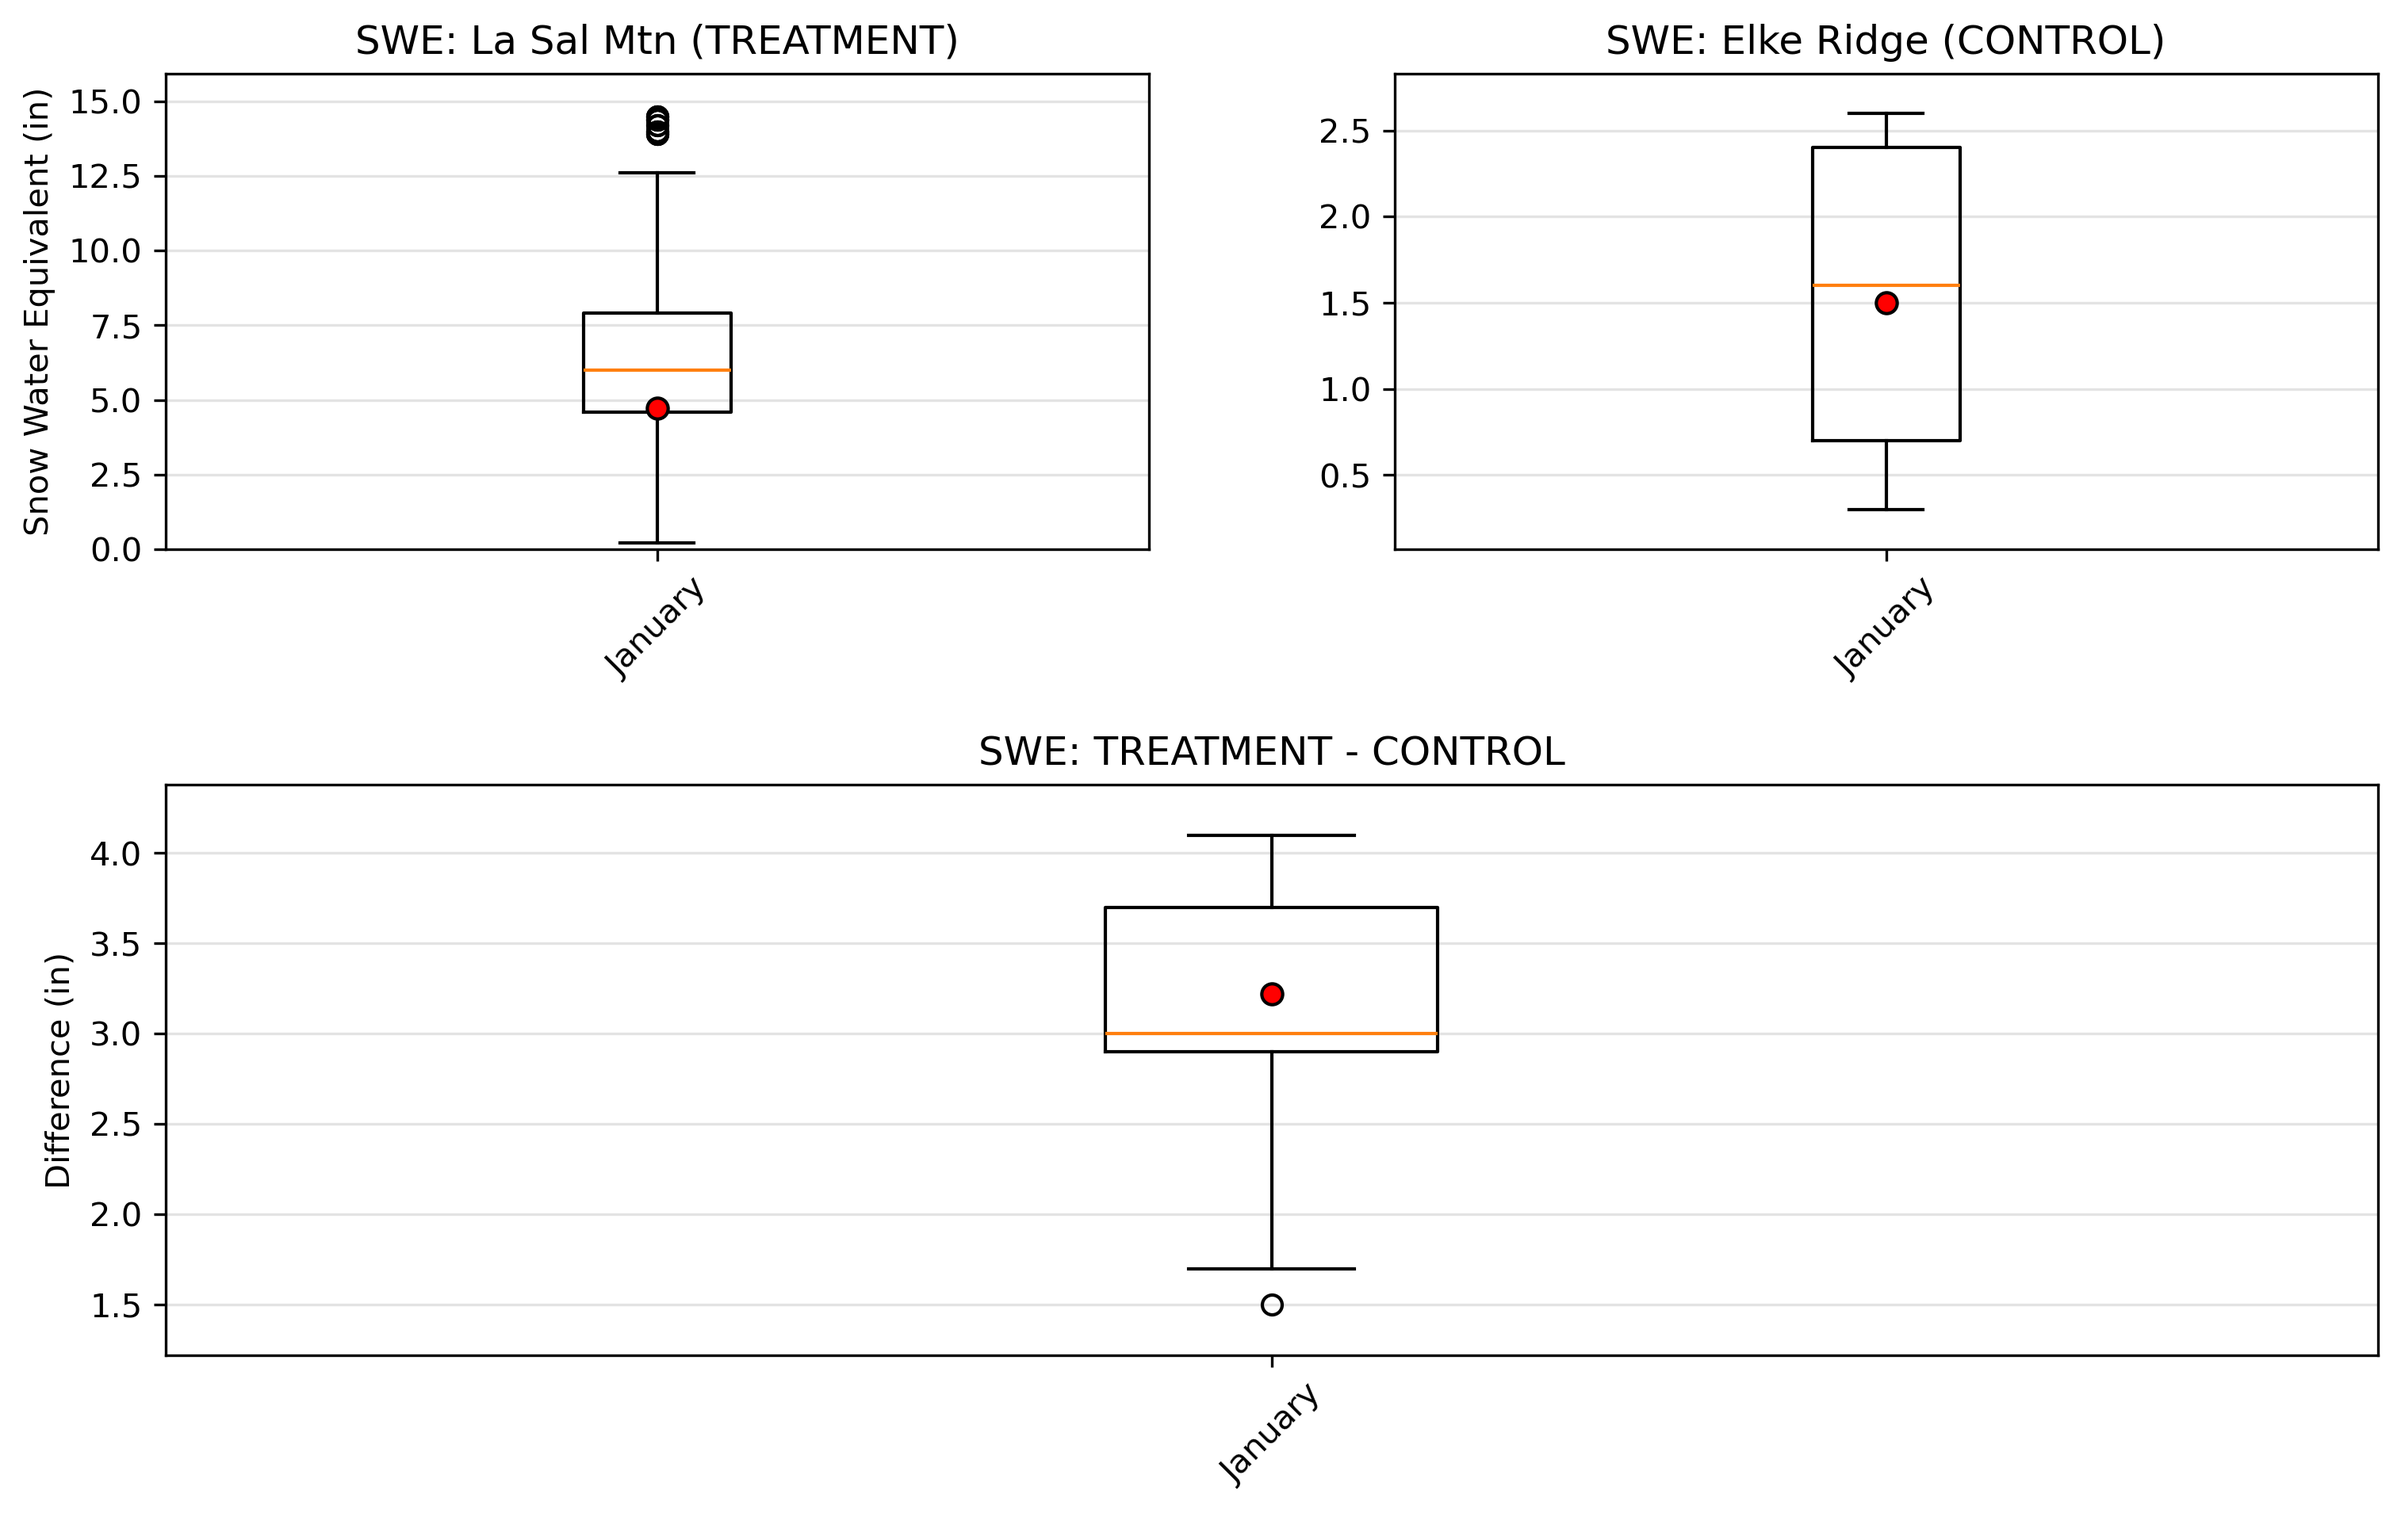
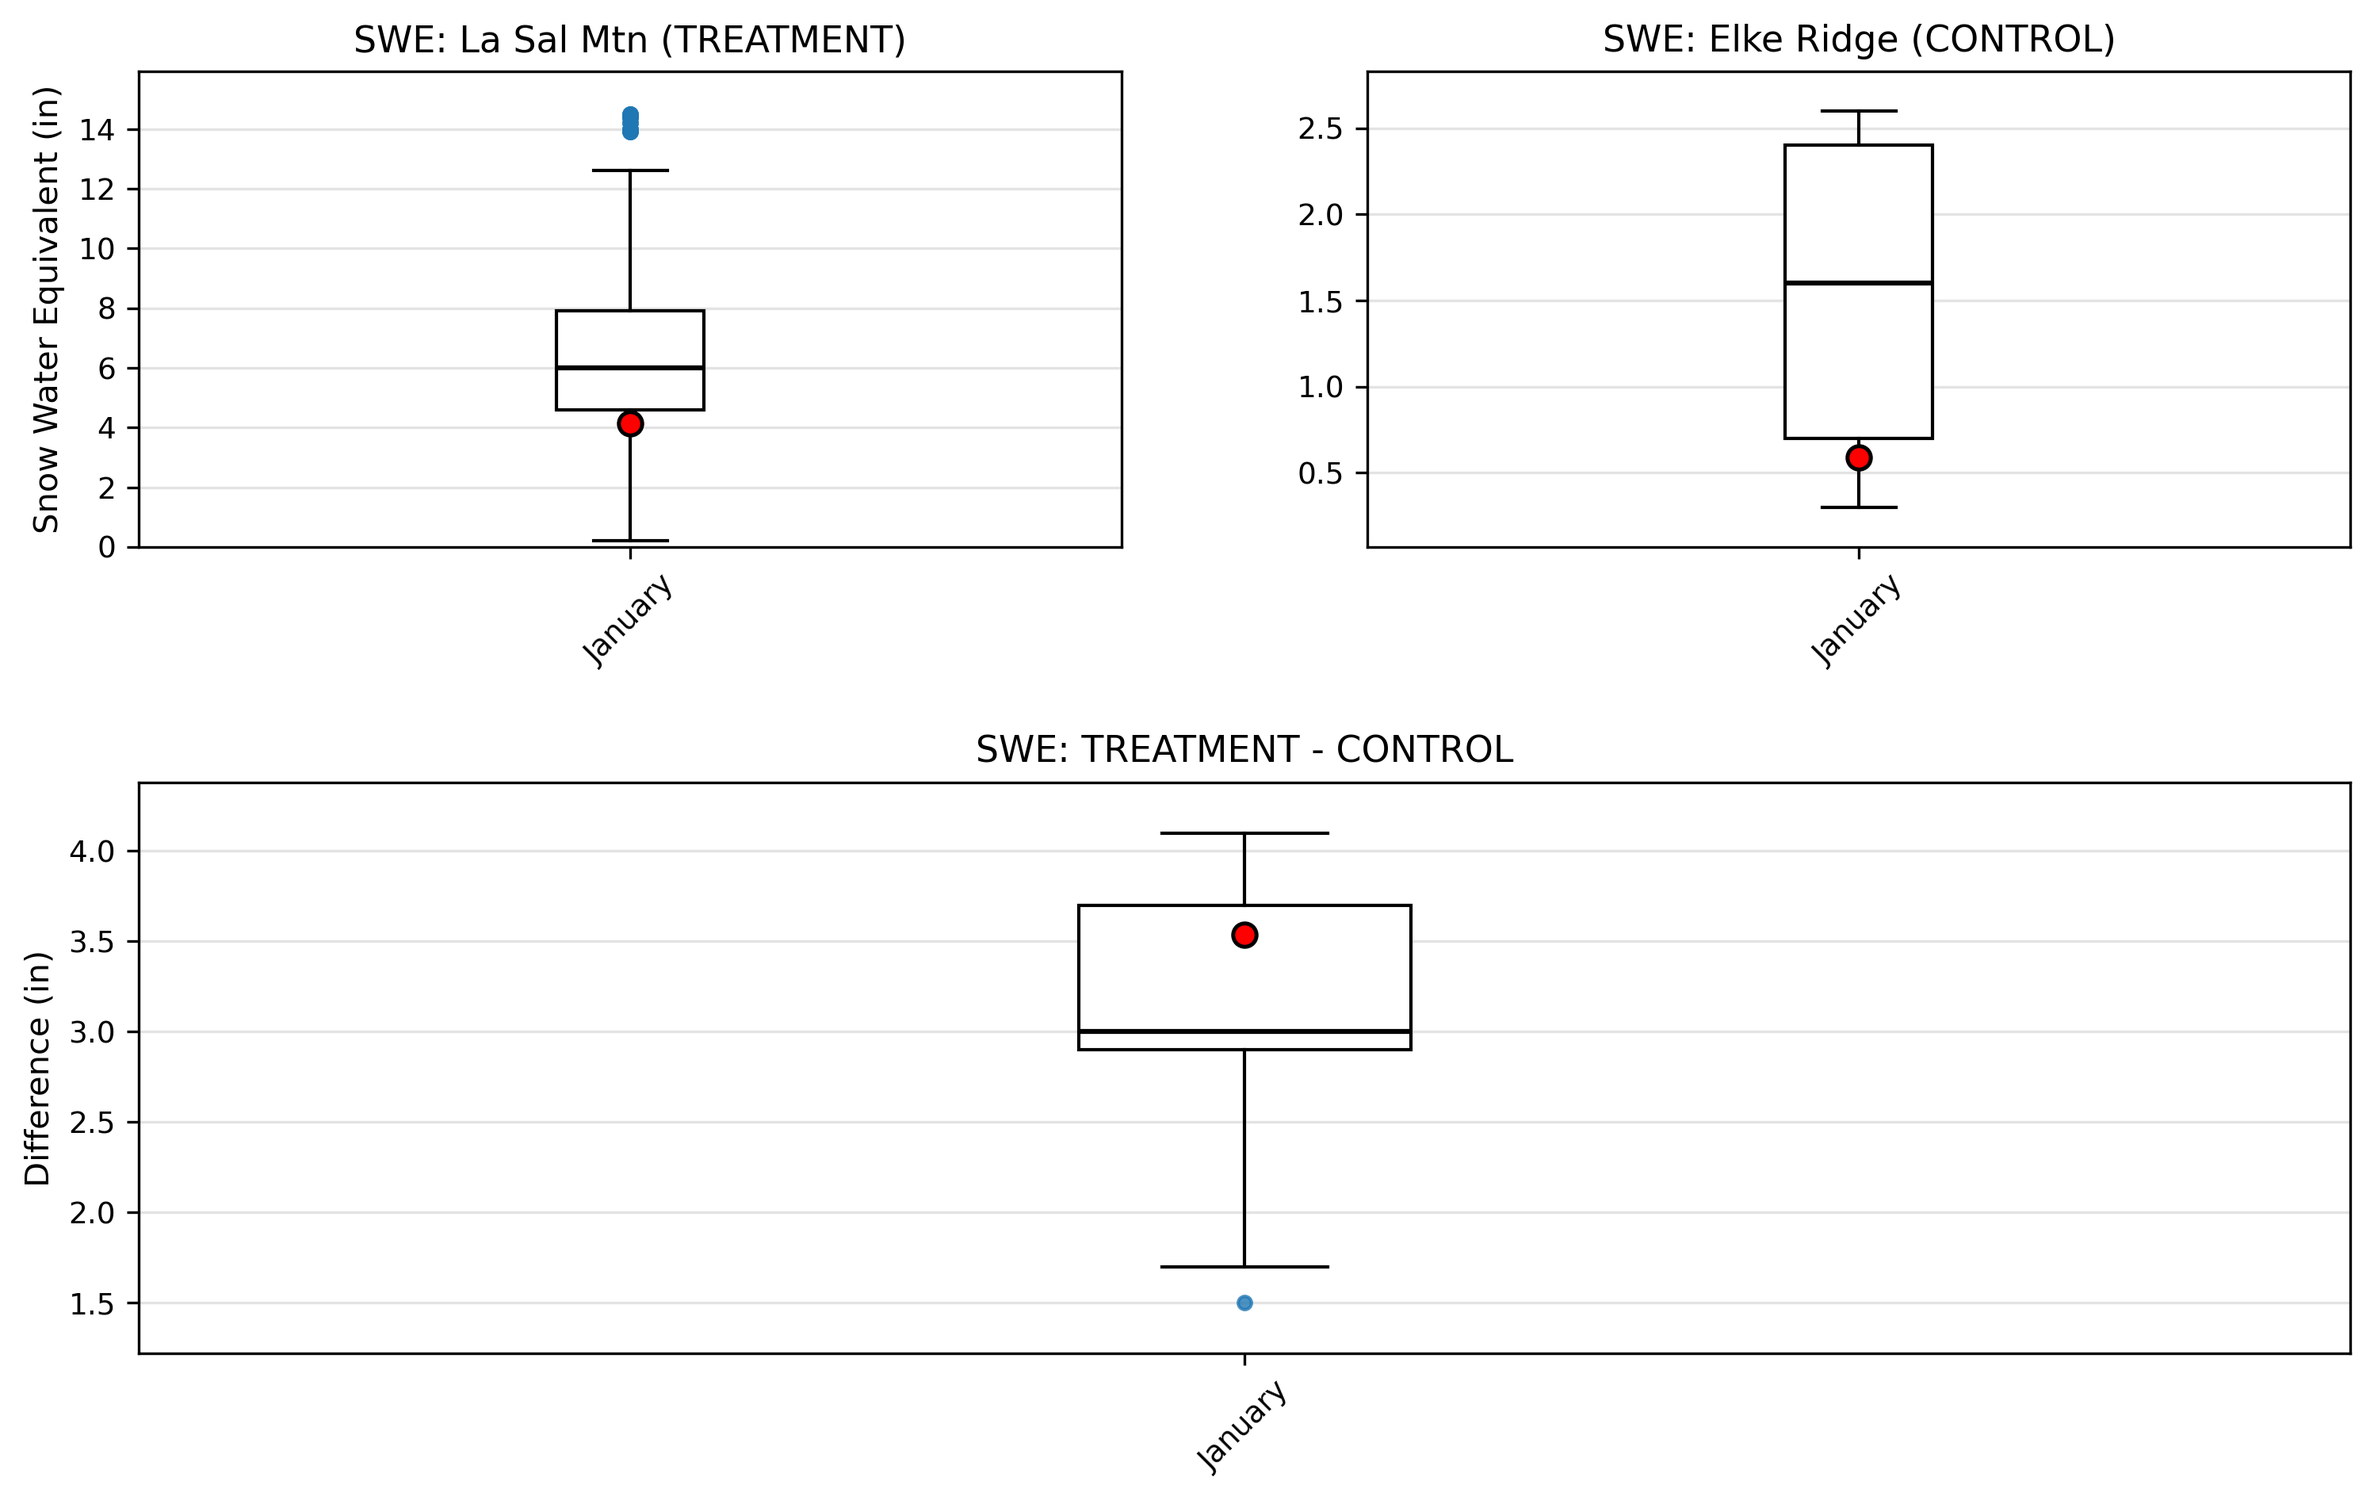
Boxplots: climatological January (all years) with Jan 2026 highlighted; style match Feb report (blue outliers, red dot current year)
Made-with: Cursor

diff --git a/scripts/plot_generators.py b/scripts/plot_generators.py
@@ -330,12 +330,12 @@ def plot_snow_depth_boxplots(treatment_station, control_station, month, year,
     highlight_vals = None
     highlight_label = None
     
-    # Only process the target month
+    # Climatological boxplot: all years of the target month (e.g. all January values), with highlight_year highlighted
     t_data = treatment_df[treatment_df['month'] == target_month]['Value'].dropna().values
     c_data = control_df[control_df['month'] == target_month]['Value'].dropna().values
     
     if len(t_data) > 0 and len(c_data) > 0:
-        # Merge on date to calculate differences
+        # Merge on date to get differences for all years
         t_month = treatment_df[treatment_df['month'] == target_month].set_index('Date')['Value']
         c_month = control_df[control_df['month'] == target_month].set_index('Date')['Value']
         
@@ -349,15 +349,19 @@ def plot_snow_depth_boxplots(treatment_station, control_station, month, year,
             diff_groups.append(merged['Diff'].values)
             labels.append(month_name)
             
-            # Set highlight for current month/year
+            # Highlight only the highlight year (e.g. January 2026) — mean of that month in that year
             if highlight_year:
-                highlight_idx = 1  # Only one box, so index is 1
-                highlight_vals = {
-                    't': float(merged['Treatment'].mean()),
-                    'c': float(merged['Control'].mean()),
-                    'd': float(merged['Diff'].mean())
-                }
-                highlight_label = None  # Remove label
+                highlight_idx = 1  # One box, index 1
+                merged_yr = merged[merged.index.year == highlight_year]
+                if len(merged_yr) > 0:
+                    highlight_vals = {
+                        't': float(merged_yr['Treatment'].mean()),
+                        'c': float(merged_yr['Control'].mean()),
+                        'd': float(merged_yr['Diff'].mean())
+                    }
+                else:
+                    highlight_vals = None
+                highlight_label = None
     
     if not labels:
         print("Warning: No overlapping data found")
@@ -371,33 +375,59 @@ def plot_snow_depth_boxplots(treatment_station, control_station, month, year,
     ax2 = fig.add_subplot(gs[0, 1])  # Control
     ax3 = fig.add_subplot(gs[1, :])  # Difference (spans both columns)
     
-    # Create boxplots (labels match February report: SWE / snow water content)
-    bp1 = ax1.boxplot(treatment_groups, labels=labels, showfliers=True)
-    ax1.set_title(f"{var_short}: {treatment_station} (TREATMENT)")
-    ax1.set_ylabel(var_label)
+    # Boxplot styling to match February report: blue fliers (climatological outliers), red dot = current year
+    def style_boxplot(bp, flier_color='#1f77b4'):
+        for box in bp['boxes']:
+            box.set_facecolor('white')
+            box.set_edgecolor('black')
+            box.set_linewidth(1)
+        for whisker in bp['whiskers']:
+            whisker.set_color('black')
+            whisker.set_linewidth(1)
+        for cap in bp['caps']:
+            cap.set_color('black')
+            cap.set_linewidth(1)
+        for median in bp['medians']:
+            median.set_color('black')
+            median.set_linewidth(1.5)
+        for flier in bp['fliers']:
+            flier.set_marker('o')
+            flier.set_markerfacecolor(flier_color)
+            flier.set_markeredgecolor(flier_color)
+            flier.set_markersize(4)
+            flier.set_alpha(0.8)
+
+    bp1 = ax1.boxplot(treatment_groups, labels=labels, showfliers=True, patch_artist=True)
+    style_boxplot(bp1)
+    ax1.set_title(f"{var_short}: {treatment_station} (TREATMENT)", fontsize=11)
+    ax1.set_ylabel(var_label, fontsize=10)
+    ax1.tick_params(axis="both", labelsize=9)
     ax1.tick_params(axis="x", rotation=45)
-    ax1.grid(axis="y", alpha=0.35)
-    
-    bp2 = ax2.boxplot(control_groups, labels=labels, showfliers=True)
-    ax2.set_title(f"{var_short}: {control_station} (CONTROL)")
+    ax1.grid(axis="y", alpha=0.35, linestyle='-')
+
+    bp2 = ax2.boxplot(control_groups, labels=labels, showfliers=True, patch_artist=True)
+    style_boxplot(bp2)
+    ax2.set_title(f"{var_short}: {control_station} (CONTROL)", fontsize=11)
+    ax2.tick_params(axis="both", labelsize=9)
     ax2.tick_params(axis="x", rotation=45)
-    ax2.grid(axis="y", alpha=0.35)
-    
-    bp3 = ax3.boxplot(diff_groups, labels=labels, showfliers=True)
-    ax3.set_title(f"{var_short}: TREATMENT - CONTROL")
-    ax3.set_ylabel("Difference (in)")
+    ax2.grid(axis="y", alpha=0.35, linestyle='-')
+
+    bp3 = ax3.boxplot(diff_groups, labels=labels, showfliers=True, patch_artist=True)
+    style_boxplot(bp3)
+    ax3.set_title(f"{var_short}: TREATMENT - CONTROL", fontsize=11)
+    ax3.set_ylabel("Difference (in)", fontsize=10)
+    ax3.tick_params(axis="both", labelsize=9)
     ax3.tick_params(axis="x", rotation=45)
-    ax3.grid(axis="y", alpha=0.35)
+    ax3.grid(axis="y", alpha=0.35, linestyle='-')
     ax3.axhline(y=0, color='black', linestyle='--', linewidth=1, alpha=0.5)
-    
-    # Add highlight marker if specified (smaller dot, no label)
+
+    # Red circle = January of highlight year (current year); blue fliers already set above = climatological outliers
     if highlight_idx is not None and highlight_vals is not None:
         def annotate_dot(ax, x, y):
             if x is not None and y is not None and np.isfinite(y):
-                # Smaller dot: s=40 instead of 80, thinner edge
-                ax.scatter([x], [y], s=40, color="red", edgecolors="black", 
-                          linewidths=1, zorder=20, marker='o')
-        
+                ax.scatter([x], [y], s=50, color='red', edgecolors='black',
+                          linewidths=1.2, zorder=25, marker='o')
+
         annotate_dot(ax1, highlight_idx, highlight_vals['t'])
         annotate_dot(ax2, highlight_idx, highlight_vals['c'])
         annotate_dot(ax3, highlight_idx, highlight_vals['d'])
